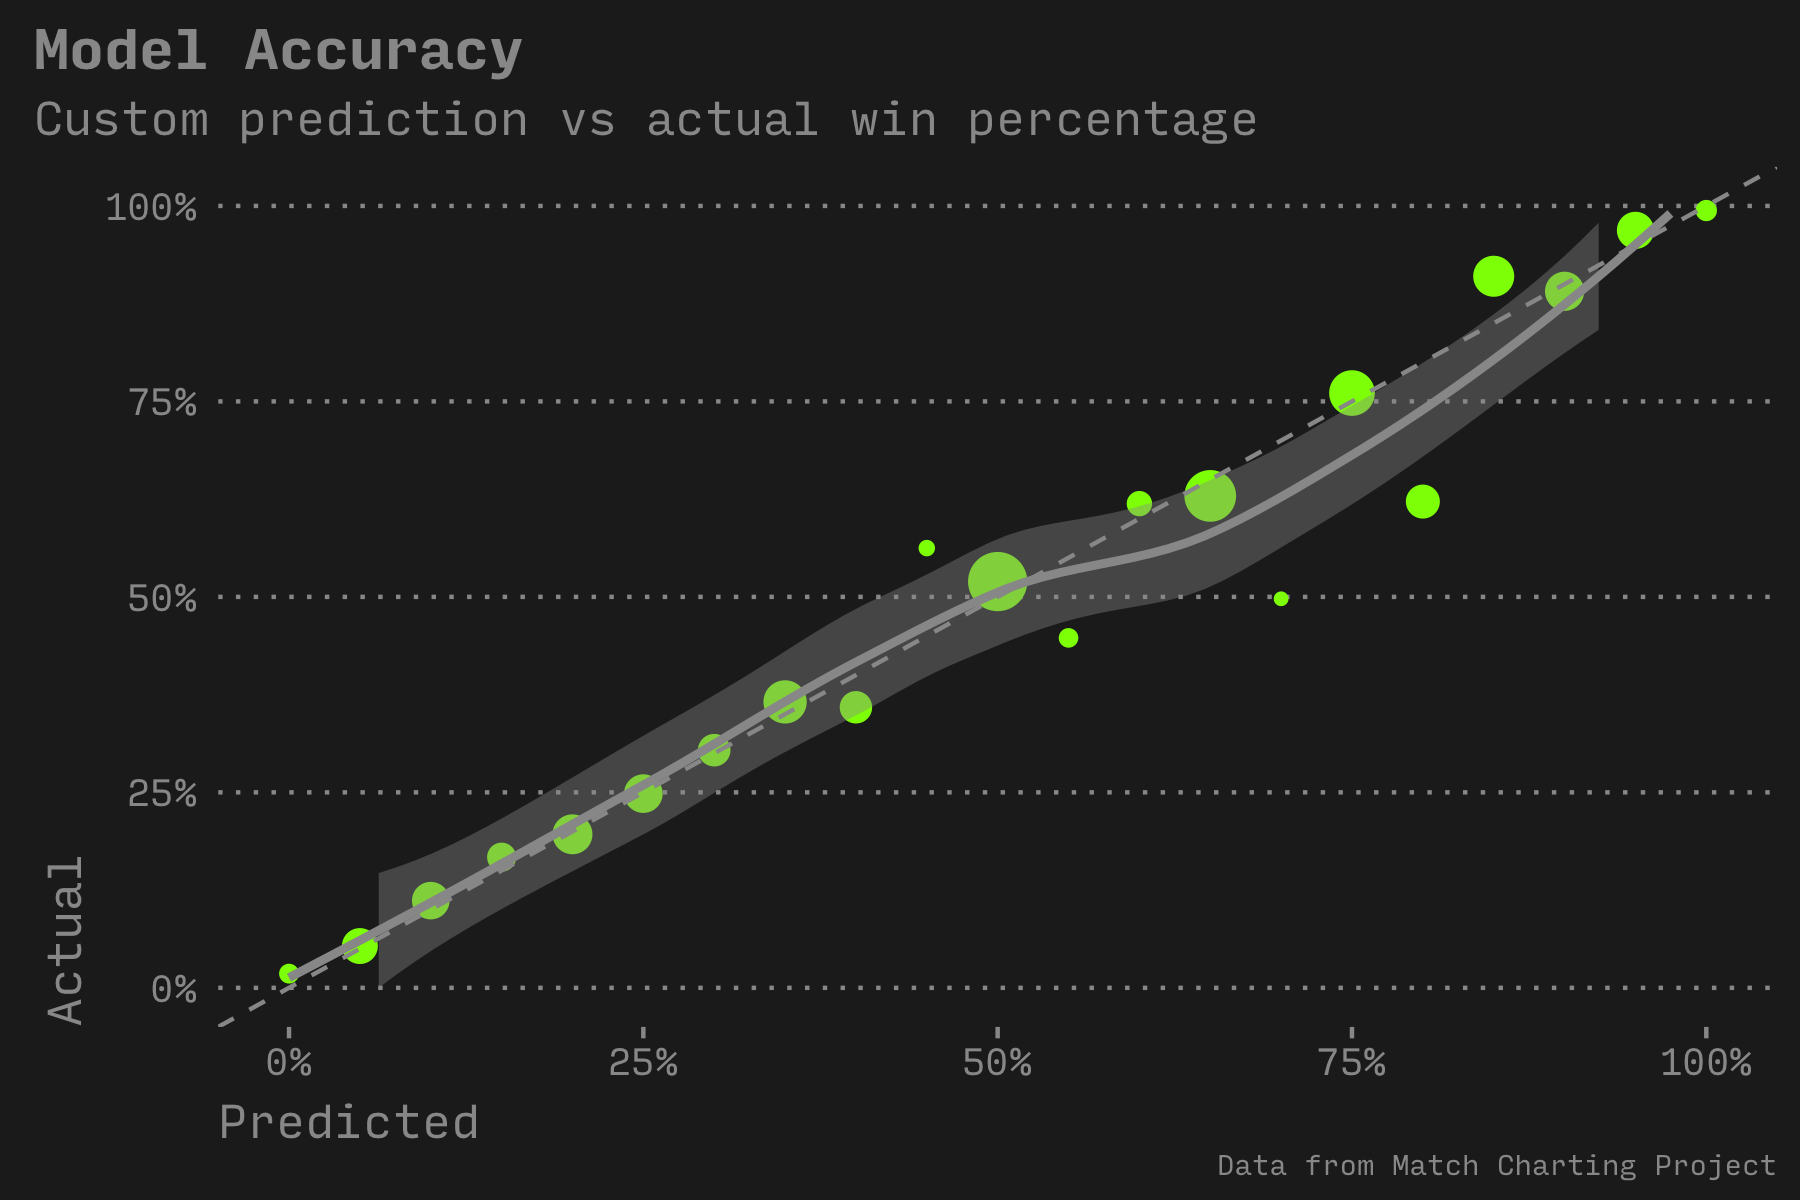
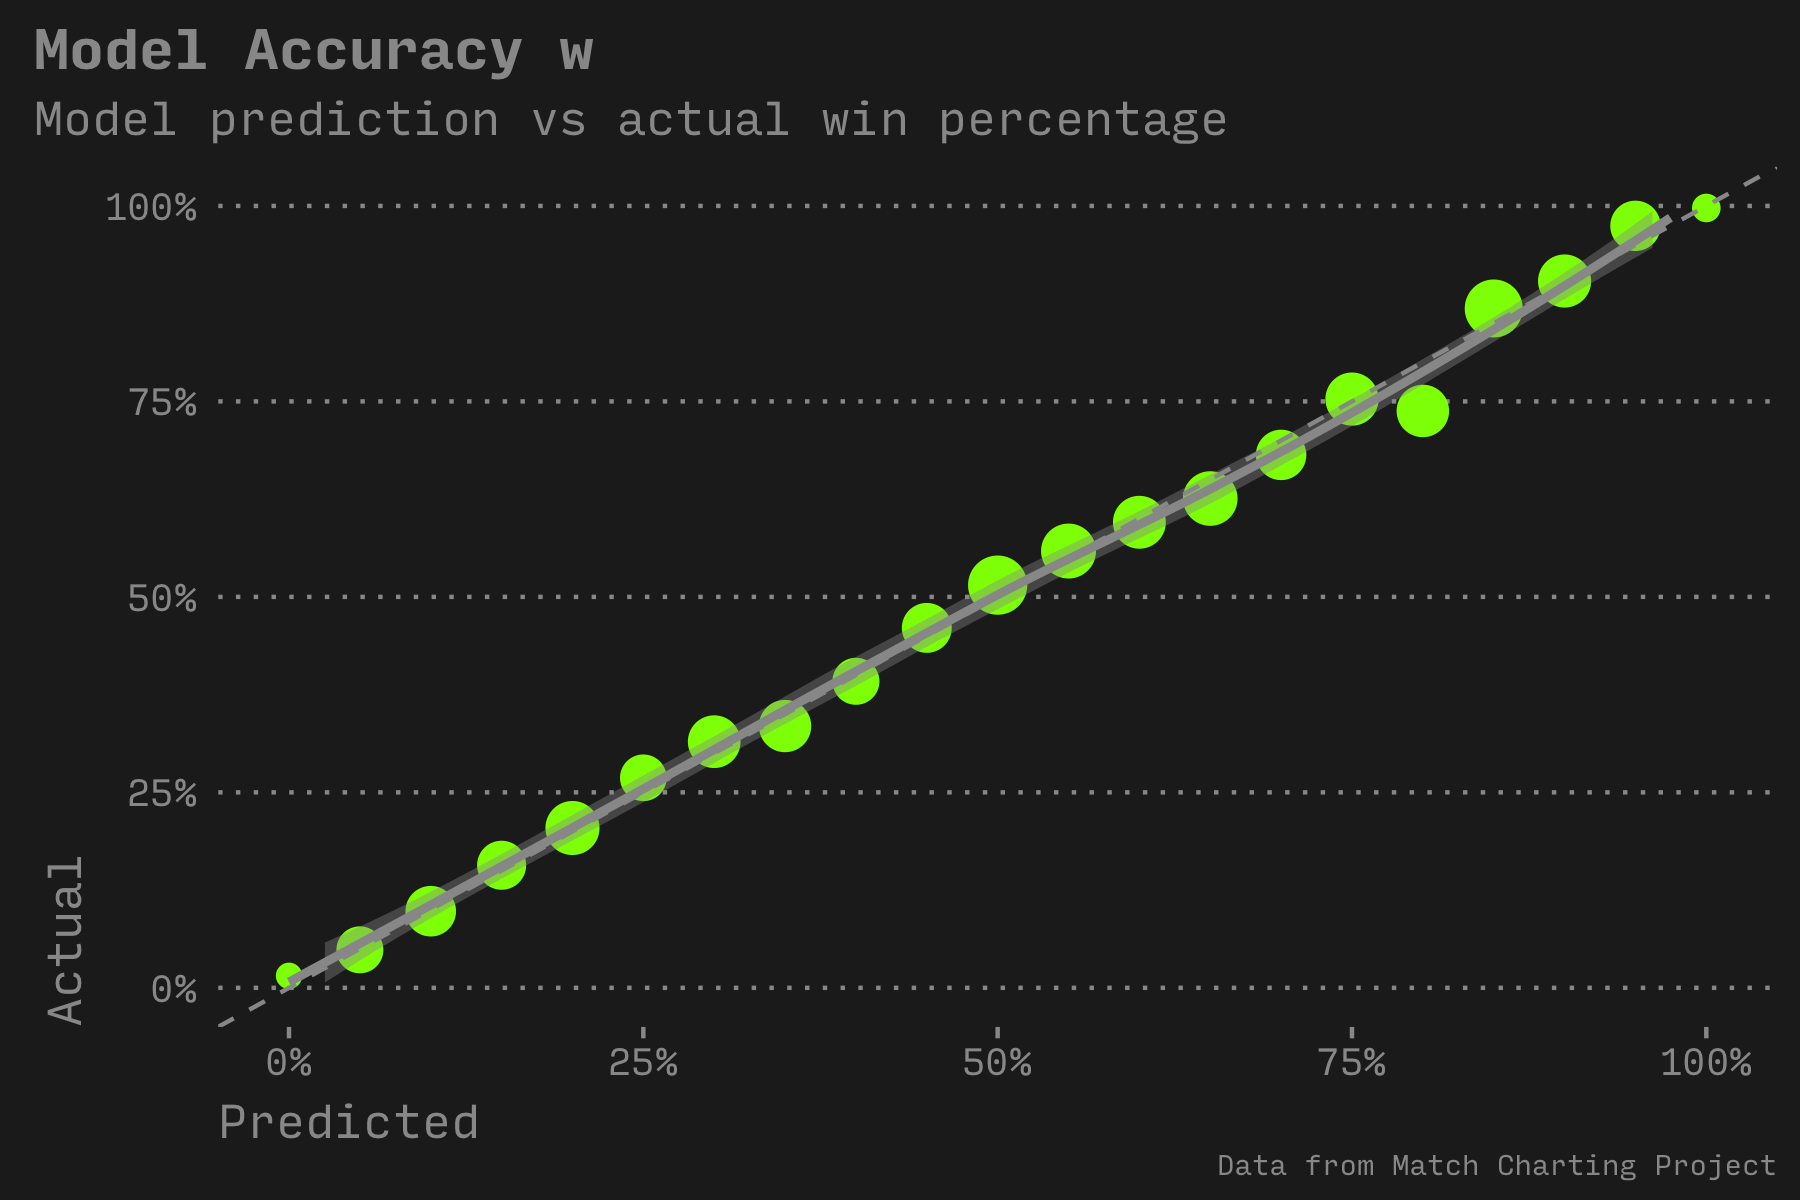
Render charts with points model
The previous charts used the old model that only used games and sets to
calculate win probability. The current one uses points for greater
accuracy.

Changed region(s): [[0.1556, 0.1542, 0.9644, 0.8325], [0.0, 0.0925, 0.7156, 0.1233], [0.3111, 0.0308, 0.3422, 0.0617]]

diff --git a/README.md b/README.md
@@ -33,6 +33,6 @@ Data cleanup tasks to do:
 - Records are numbered by point `Pts` (approximately 100 per match)
 - `Set1` and `Set2` are sets won by player 1 or two
 - Same for `Gm1` and `Gm2`
-- `Pts` needs to be split on `-` to find points for each player
-- Could extend the model for points (currently uses games and sets)
+- The model uses points, games, and sets
+- The identity of the player serving the ball is not currently included in the model
 - Need to add reference lines for games or sets.
